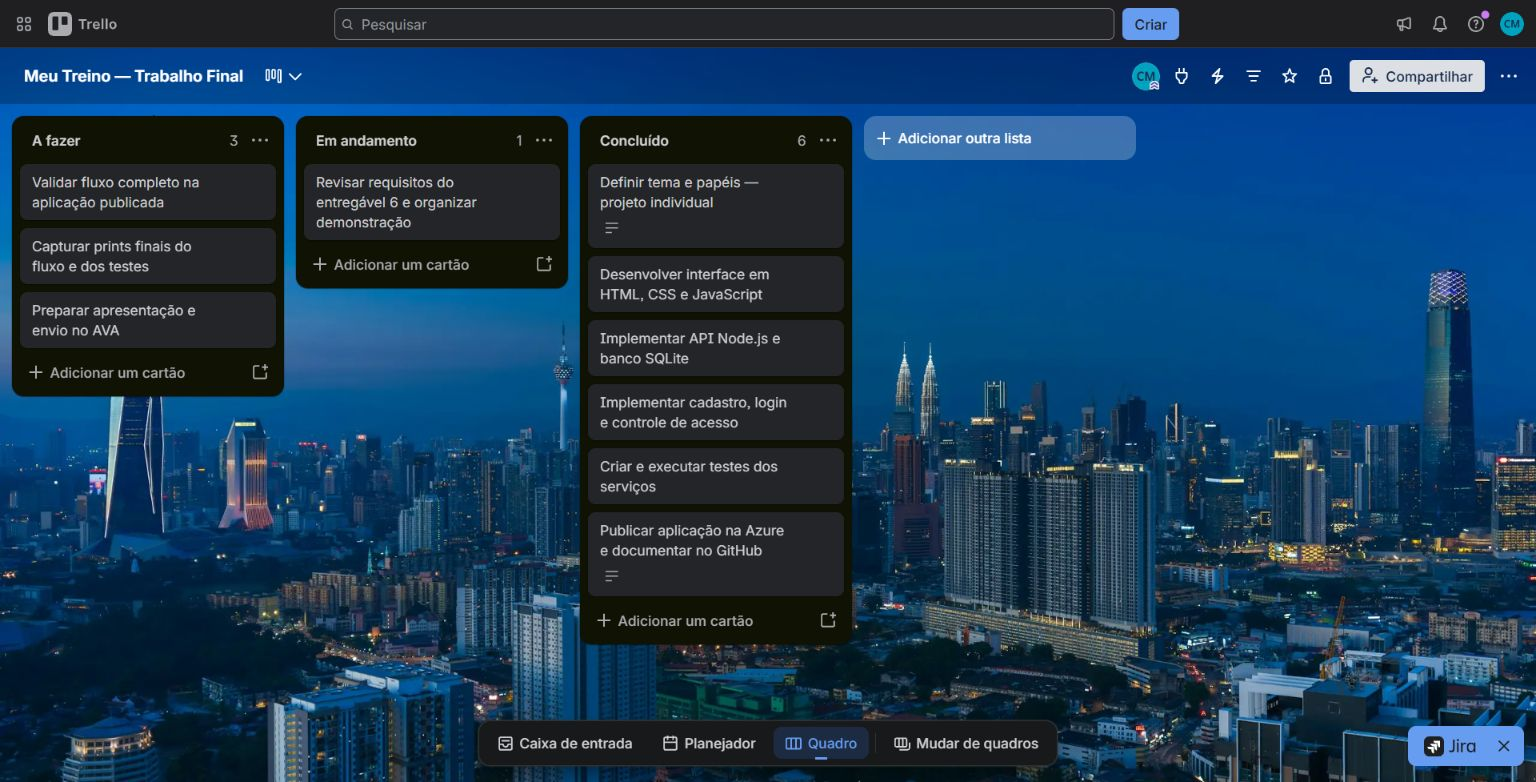
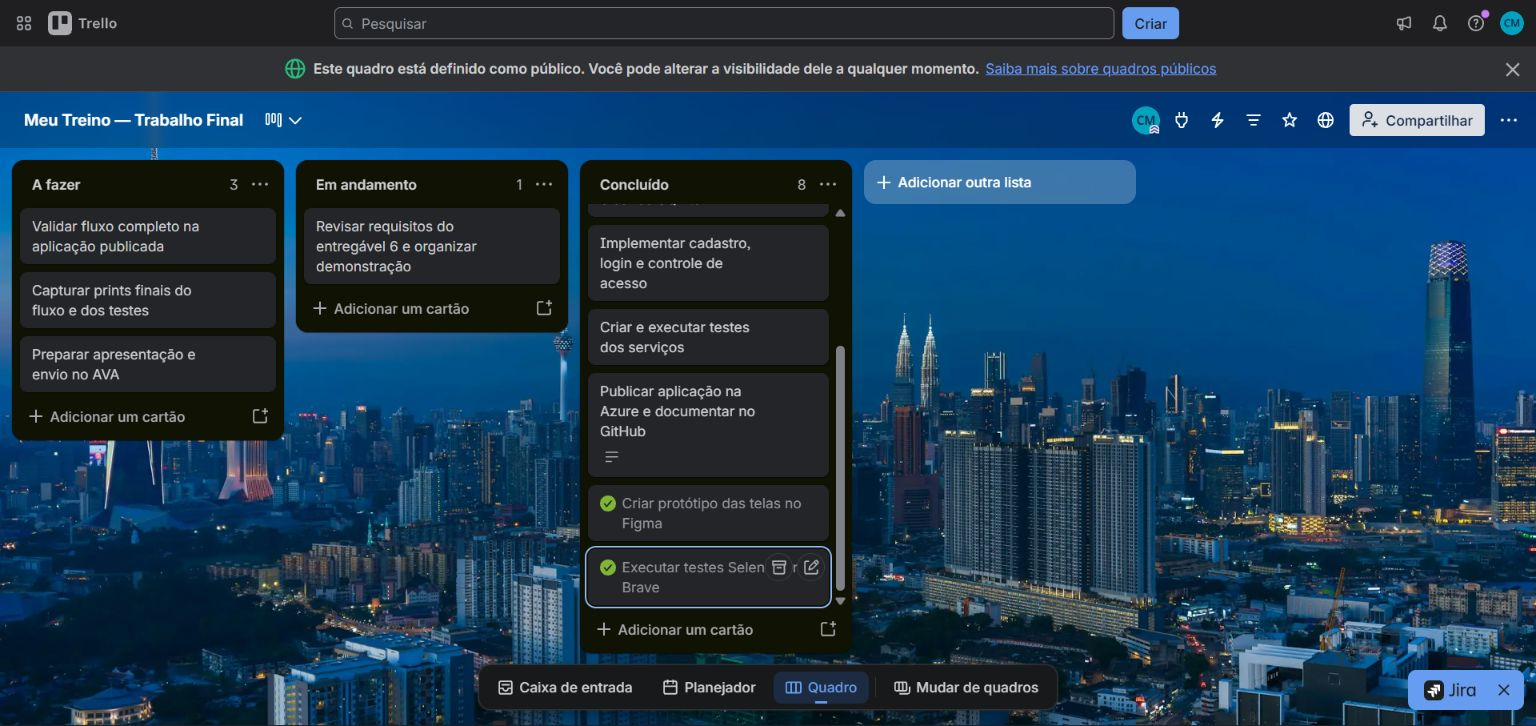
Adiciona testes Selenium e evidências do Trello

diff --git a/README.md b/README.md
@@ -12,12 +12,12 @@ Aplicação web individual para organizar fichas, registrar treinos e acompanhar
 | Servidor | Node.js 24, módulo `node:http` | Servir a interface e disponibilizar as rotas da API |
 | Banco de dados | SQLite, módulo `node:sqlite` | Guardar usuários, sessões, exercícios, fichas, treinos e metas |
 | Autenticação | `node:crypto` e cookies HTTP-only | Gerar hash das senhas, criar sessões e proteger os dados de cada usuário |
-| Testes | `node:test` e `node:assert` | Verificar os principais fluxos da API com `npm test` |
+| Testes | `node:test`, `node:assert` e Selenium WebDriver | Verificar a API e os fluxos reais da interface no navegador |
 | Código-fonte | GitHub | Versionar e disponibilizar o projeto |
 | Nuvem | Microsoft Azure App Service | Executar a aplicação e oferecer a URL pública |
 | Configuração da hospedagem | `web.config` e IISNode | Iniciar e encaminhar as requisições para o servidor Node.js no App Service para Windows |
 
-O projeto não depende de bibliotecas externas do npm. O banco SQLite é criado automaticamente na primeira execução.
+O servidor usa os módulos nativos do Node.js. O Selenium WebDriver é uma dependência de desenvolvimento, usada somente nos testes de interface. O banco SQLite é criado automaticamente na primeira execução.
 
 ## Funcionalidades
 
@@ -46,9 +46,12 @@ Abra <http://localhost:3000>. O arquivo local do banco fica em `data/treinos.sql
 
 ```bash
 npm test
+npm run test:selenium
 ```
 
-Em 23/11/2026, os **3 testes passaram** localmente. Eles verificam cadastro e login, proteção das rotas, criação de exercícios, fichas, treinos e metas, edição de treino, validação de entradas e separação dos dados entre usuários. Os cenários estão em [`tests/app.test.js`](tests/app.test.js). O GitHub Actions também executa os testes a cada envio de código.
+Em 23/11/2026, os **3 testes da API** e os **2 testes Selenium** passaram localmente. Os testes da API verificam cadastro e login, proteção das rotas, criação de exercícios, fichas, treinos e metas, edição de treino, validação de entradas e separação dos dados entre usuários. Os cenários estão em [`tests/app.test.js`](tests/app.test.js).
+
+Os testes Selenium em [`e2e/selenium.cjs`](e2e/selenium.cjs) abrem o navegador, criam uma conta, entram no painel e cadastram um exercício e uma ficha pela interface. No Windows, usam o Brave instalado no caminho padrão; em outros sistemas, usam o Chrome. Se o Brave estiver em outro local, defina `BRAVE_BIN` com o caminho do executável. O Selenium Manager obtém o driver compatível. As capturas são salvas em `artifacts/selenium/`, pasta ignorada pelo Git. O GitHub Actions executa os dois comandos a cada envio de código.
 
 ## Inspecionar o banco de dados
 
@@ -74,6 +77,7 @@ Tutorial de referência para a implantação: [Criar um aplicativo Web Node.js n
 public/          Interface web (HTML, CSS e JavaScript)
 server.js        Servidor, API e acesso ao SQLite
 tests/           Testes automatizados
+e2e/             Testes Selenium da interface
 web.config       Configuração da aplicação no Azure App Service
 docs/evidencias/ Prints da aplicação publicada
 scripts/         Consulta da estrutura do banco SQLite
@@ -85,11 +89,11 @@ Projeto individual: Caueh Motta é responsável pelo planejamento, design, imple
 
 | Ambiente solicitado | Como foi usado |
 | --- | --- |
-| Gestão de tarefas | Quadro Trello **Meu Treino — Trabalho Final**, com listas A fazer, Em andamento e Concluído. O quadro é privado; o print abaixo registra as tarefas e os papéis. |
+| Gestão de tarefas | [Quadro público no Trello](https://trello.com/b/ZO6fC4cG/meu-treino-trabalho-final), com listas A fazer, Em andamento e Concluído. Como o trabalho é individual, Caueh Motta assume planejamento, design, desenvolvimento, testes e publicação. |
 | Design de interfaces | [Protótipo no Figma](https://www.figma.com/design/Cx5uPXwOuBWwmiUsfv5mBH/Meu-Treino-%E2%80%94-prot%C3%B3tipo-de-interface), com telas editáveis de login e painel. É uma proposta visual; alguns dados e detalhes ilustrativos diferem da aplicação funcional. |
 | Desenvolvimento | Visual Studio Code para trabalhar nos arquivos da interface, do servidor Node.js e dos testes, com versão do código neste repositório. |
 | Banco de dados | SQLite acessado pelo módulo `node:sqlite`. O comando `npm run db:inspect` permite conferir a estrutura do banco sem expor dados pessoais. |
-| Testes | `node:test` e `node:assert` com `npm test`, executados localmente e no GitHub Actions. Selenium foi citado como exemplo na atividade; aqui o ambiente de testes usado foi o Node.js com CI. |
+| Testes | `node:test` e `node:assert` para a API; Selenium WebDriver para testar a interface no Brave. Execute `npm test` e `npm run test:selenium`. O GitHub Actions repete ambos. |
 | Execução e servidor web | Node.js no Microsoft Azure App Service. A [URL pública](https://meu-treino-vscaueh-b2akgha3facagbag.westus3-01.azurewebsites.net/) permite testar a aplicação no navegador. |
 
 Fluxo da aplicação: **navegador → API Node.js → SQLite → resposta ao navegador**. O servidor valida as entradas e relaciona cada registro ao usuário autenticado.
@@ -108,7 +112,7 @@ Capturas da aplicação publicada na Azure em **19/11/2026**:
 
 ### Evidências do trabalho final
 
-**Gestão de tarefas no Trello:**
+**Gestão de tarefas no [Trello](https://trello.com/b/ZO6fC4cG/meu-treino-trabalho-final):**
 
 ![Quadro de tarefas Meu Treino no Trello](docs/evidencias/trello-meu-treino.png)
 
@@ -125,6 +129,12 @@ Capturas da aplicação publicada na Azure em **19/11/2026**:
 **Testes automatizados no GitHub Actions:**
 
 ![Três testes aprovados no GitHub Actions](docs/evidencias/github-actions-testes.png)
+
+**Testes da interface com Selenium WebDriver no Brave:** as capturas abaixo foram feitas durante a execução dos dois testes.
+
+![Selenium após criar conta e entrar no painel](docs/evidencias/selenium-login.png)
+
+![Selenium após cadastrar exercício e ficha](docs/evidencias/selenium-painel.png)
 
 **Aplicação em execução no Microsoft Azure App Service:**
 
